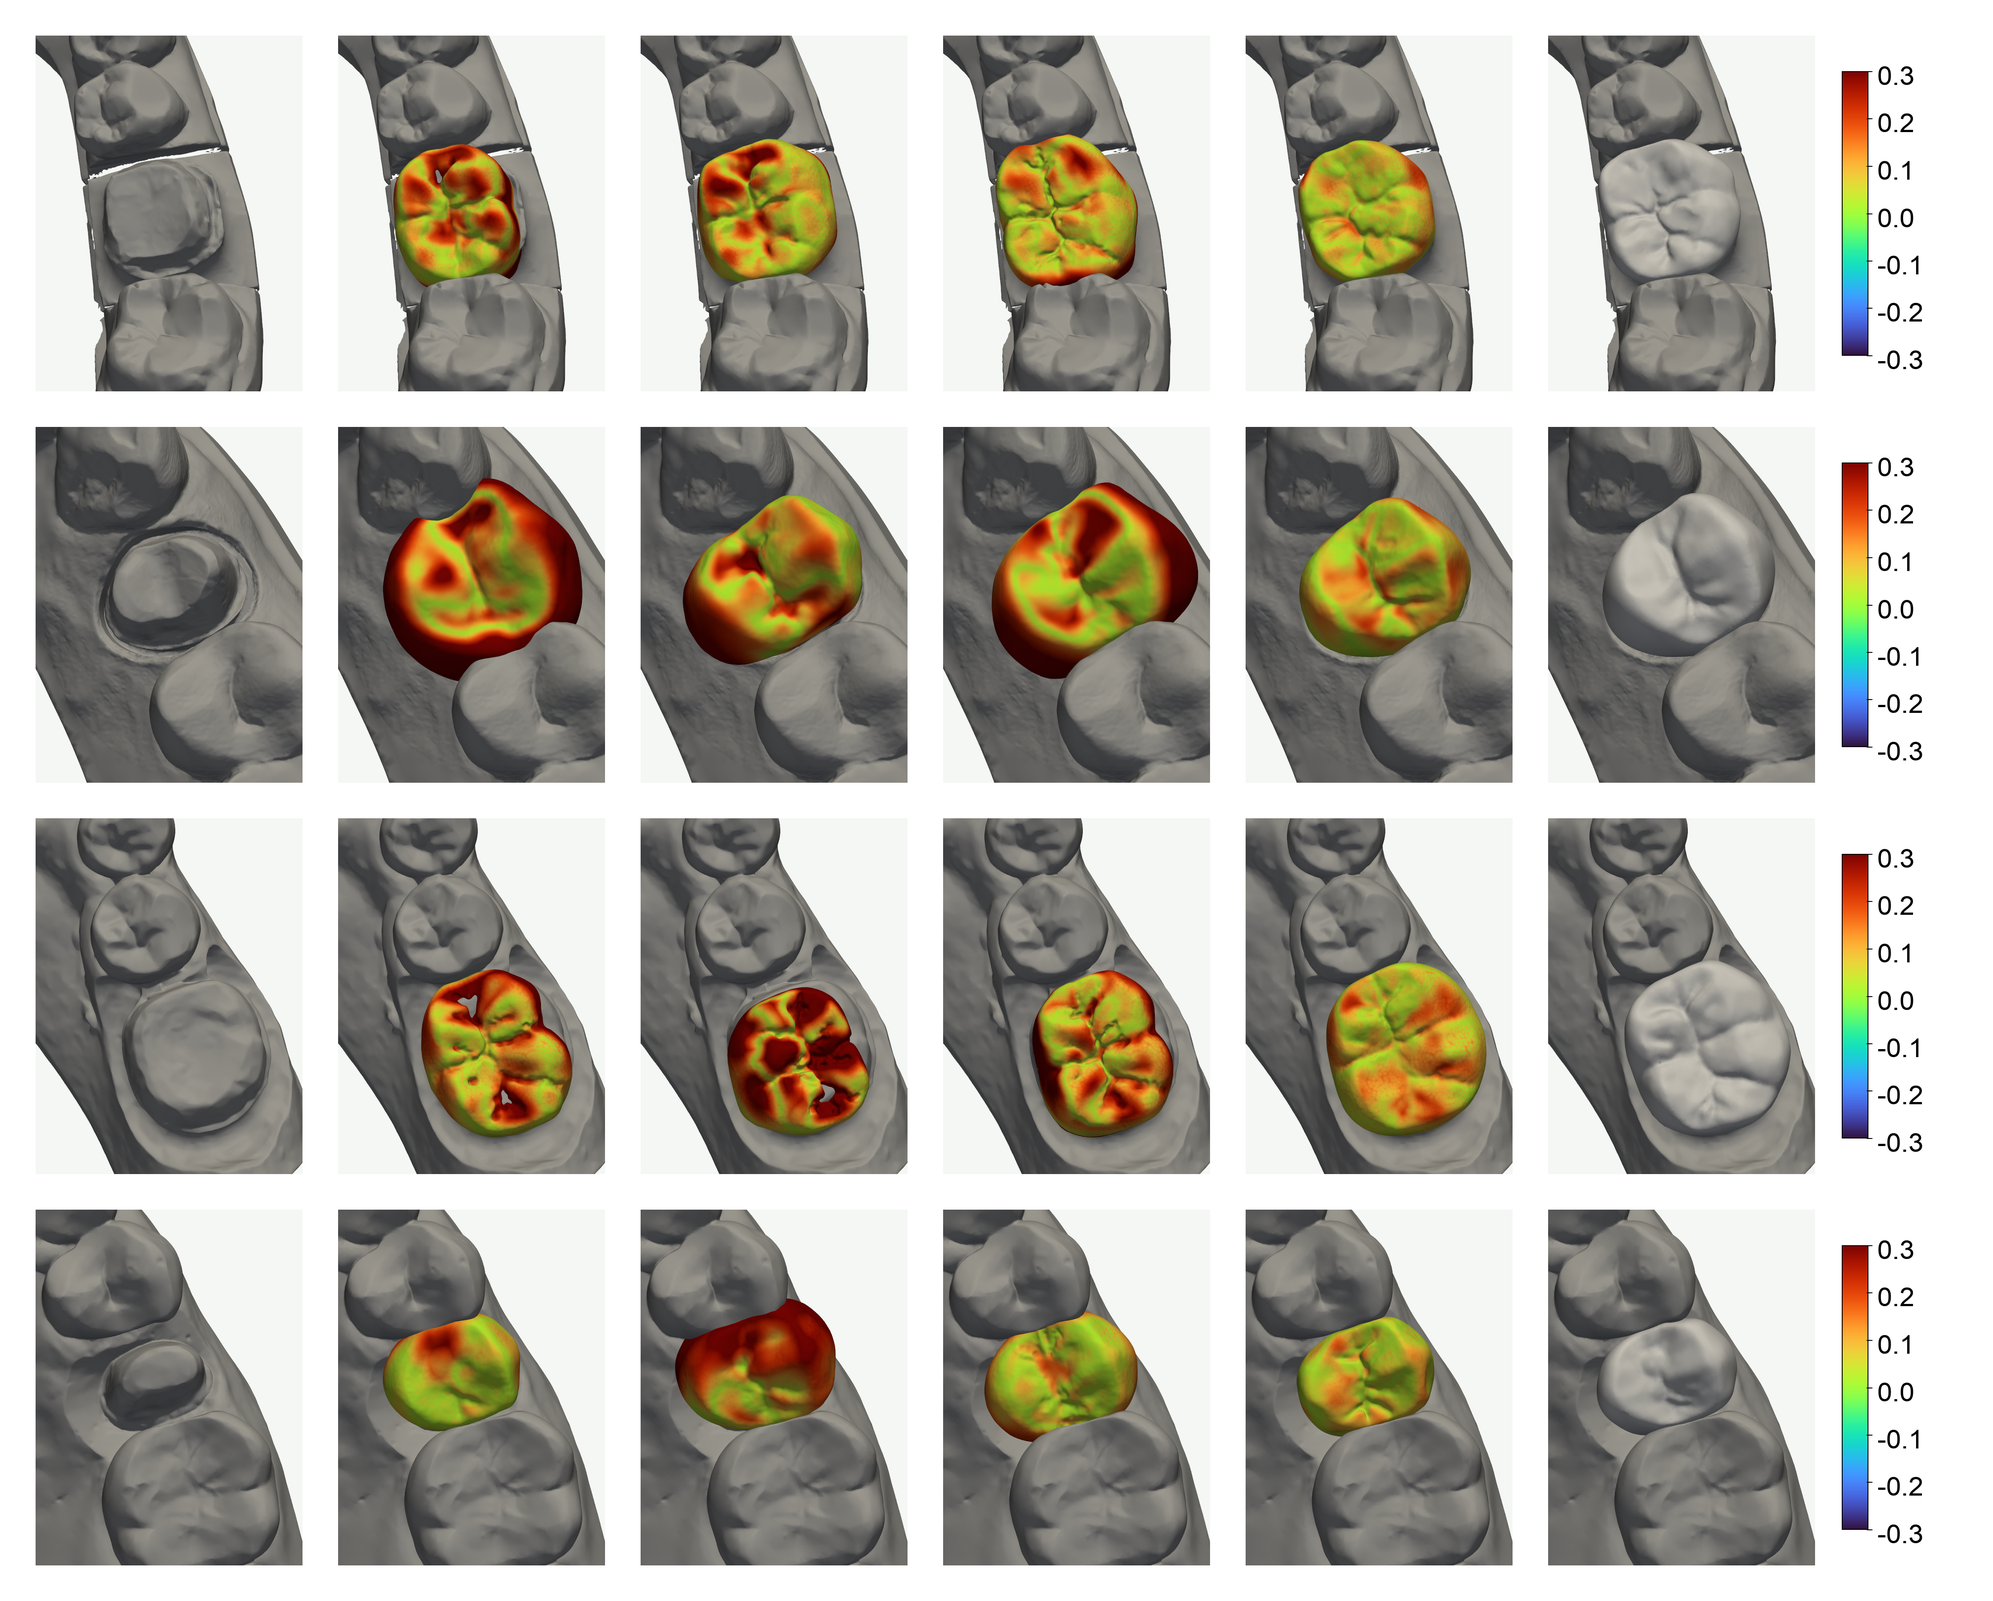
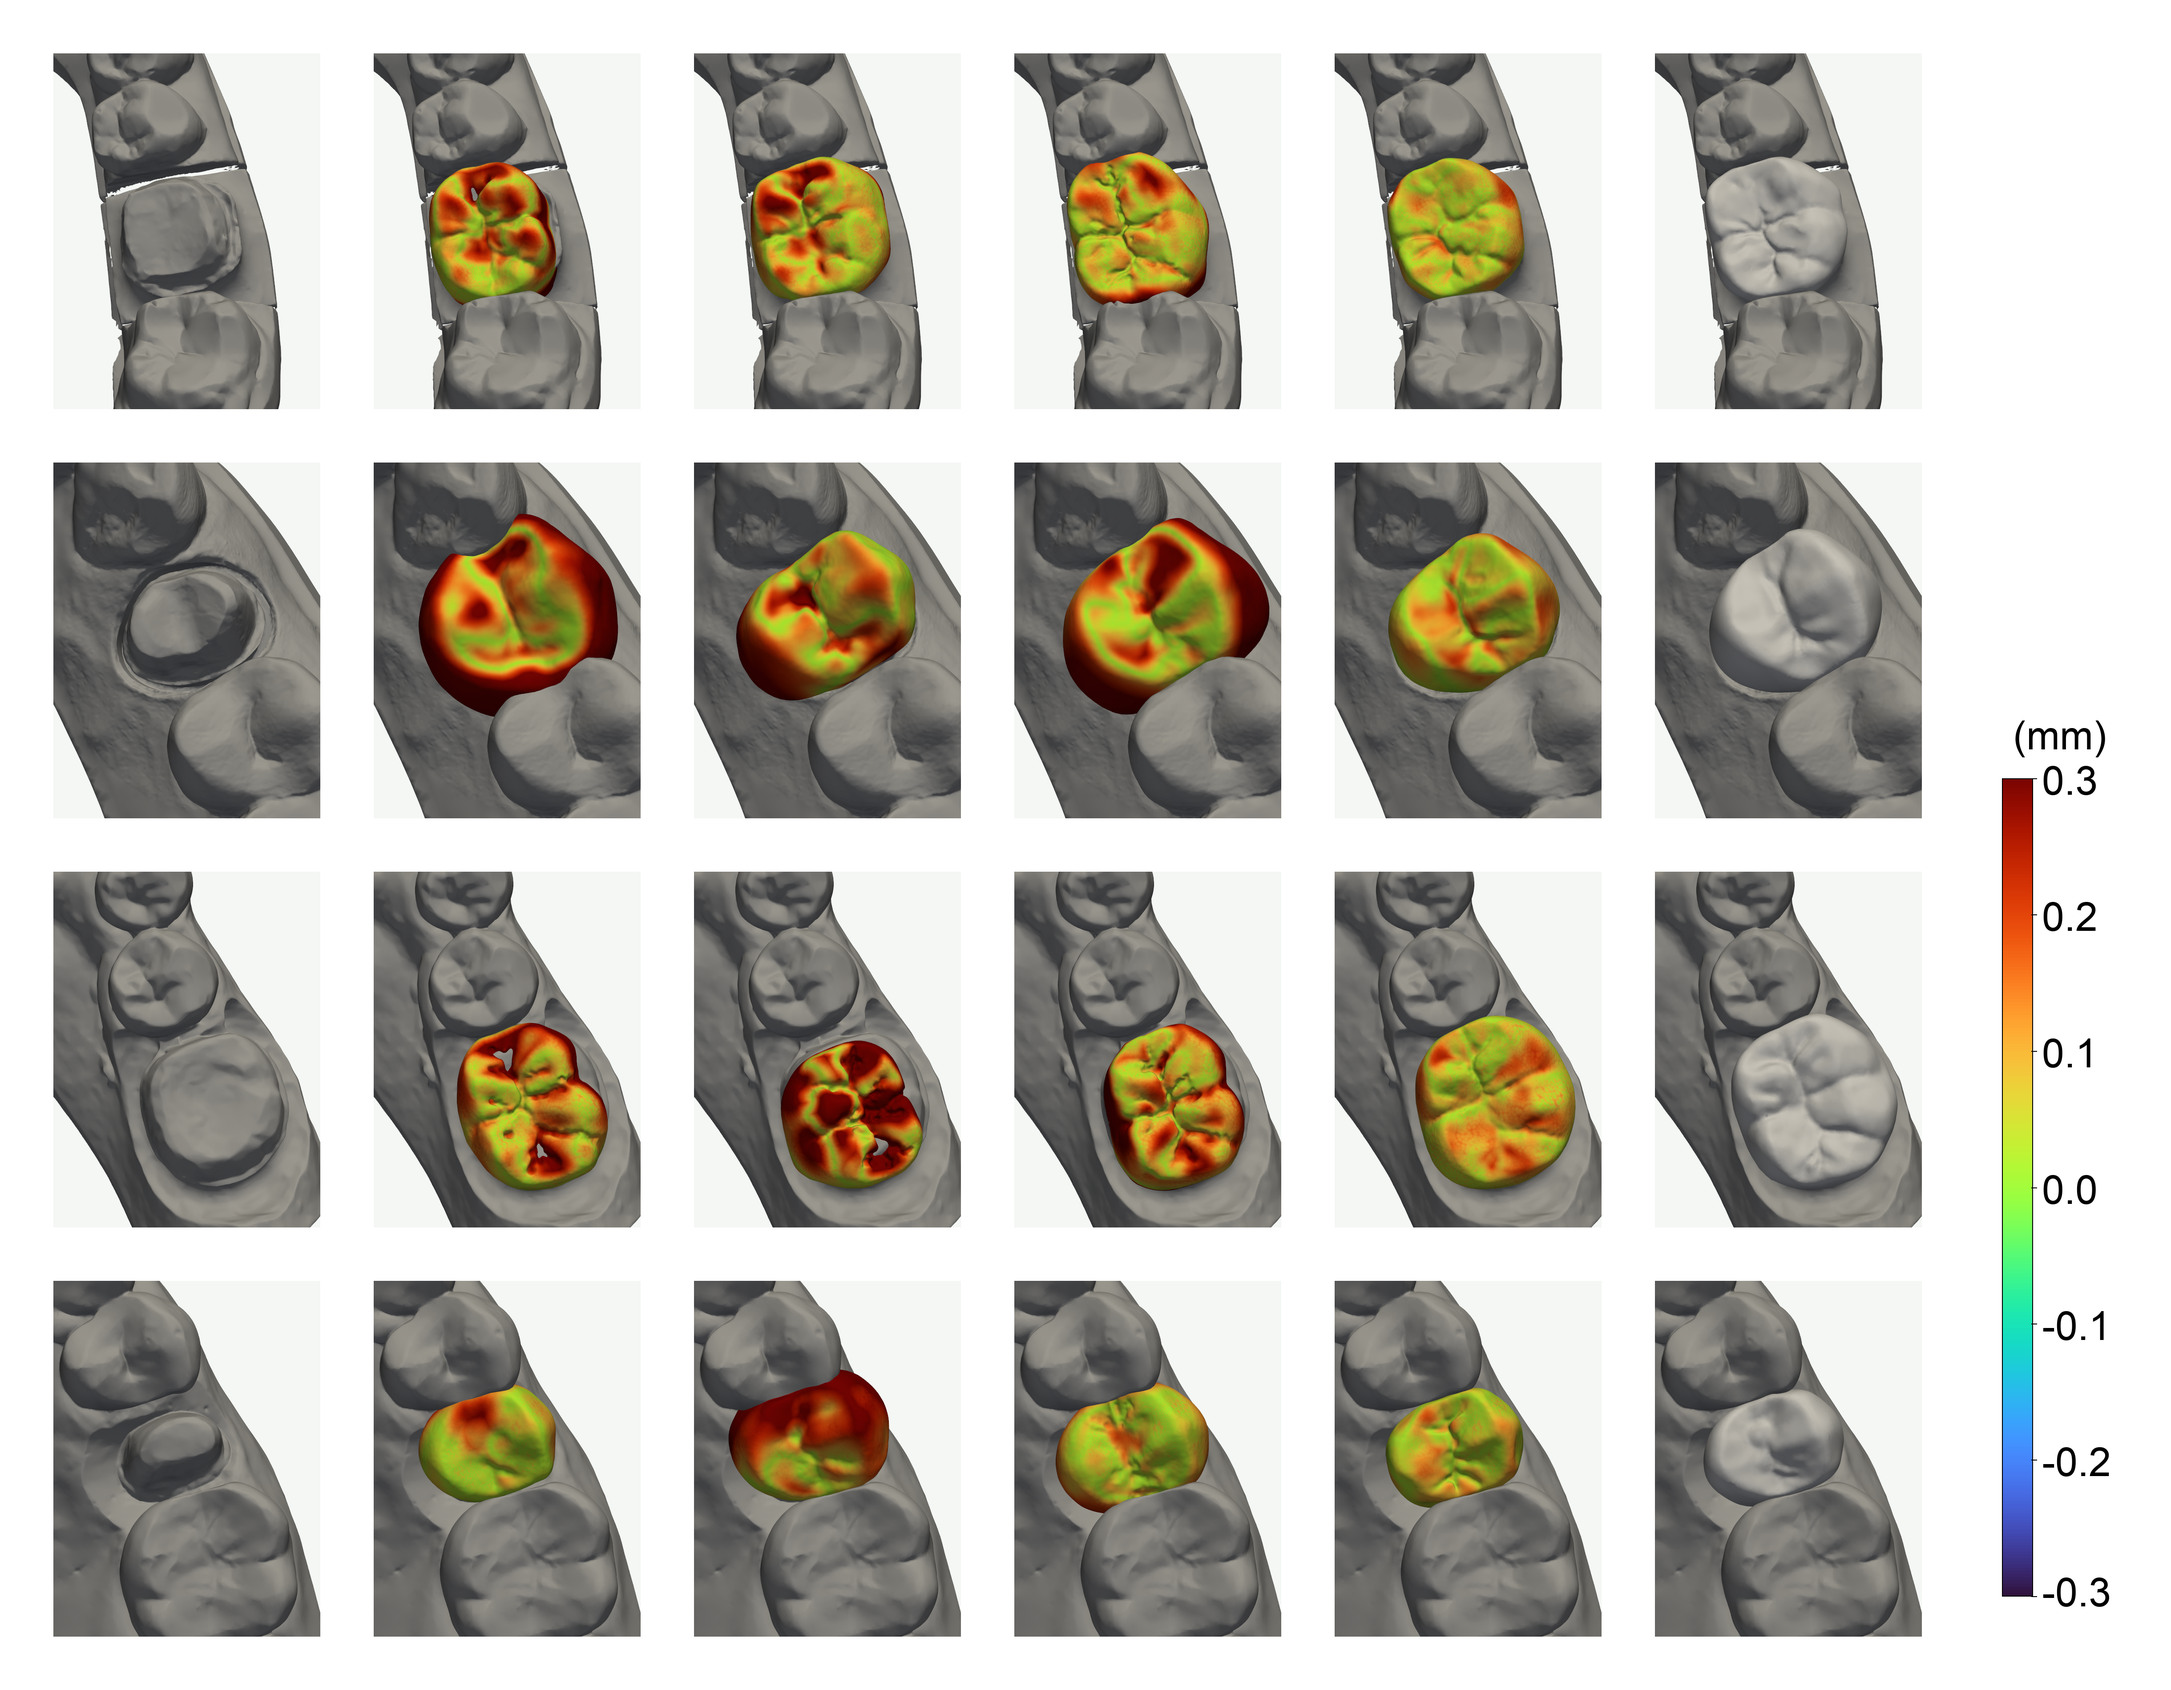
update

diff --git a/figures/method_comparison_preview_3/step3_merge_imgs.py b/figures/method_comparison_preview_3/step3_merge_imgs.py
@@ -28,22 +28,24 @@ COLORBAR_WIDTH = 260
 COLORBAR_GAP = 60 #色带与最后一张图片之间间距
 
 
-def make_colorbar(height: int) -> Image.Image:
+def make_colorbar(height: int, bar_width: int = 60, font_size: int = 60,
+                  unit: str = "(mm)") -> Image.Image:
     """Create a vertical turbo colorbar matching method_comparison_preview2."""
+    top_pad = 50  # extra clear space above the unit label
     margin_y = 80 # 色带本体上下留白
     bar_height = max(1, height - 2 * margin_y)
     values = np.linspace(1.0, 0.0, bar_height)
     rgb = (colormaps["turbo"](values)[:, :3] * 255).astype(np.uint8)
-    bar_width = 60
     bar = Image.fromarray(np.repeat(rgb[:, None, :], bar_width, axis=1), "RGB")
-    canvas = Image.new("RGB", (COLORBAR_WIDTH, height), "white")
-    canvas.paste(bar, (0, margin_y))
+    canvas = Image.new("RGB", (COLORBAR_WIDTH, height + top_pad), "white")
+    canvas.paste(bar, (0, margin_y + top_pad))
     draw = ImageDraw.Draw(canvas)
     # Frame the color strip so the scale is visually explicit.
+    margin_y += top_pad
     draw.rectangle((0, margin_y, bar_width - 1, margin_y + bar_height - 1),
                    outline="black", width=2)
     try:
-        font = ImageFont.truetype("/System/Library/Fonts/Supplemental/Arial.ttf", 60)
+        font = ImageFont.truetype("/System/Library/Fonts/Supplemental/Arial.ttf", font_size)
     except OSError:
         font = ImageFont.load_default()
     # Six evenly spaced ticks, with the largest positive value at the top.
@@ -51,8 +53,14 @@ def make_colorbar(height: int) -> Image.Image:
     for index, label in enumerate(labels):
         y = margin_y + round(index * (bar_height - 1) / (len(labels) - 1))
         draw.line((bar_width - 4, y, bar_width + 8, y), fill="black", width=2)
-        text_y = max(0, min(height - 52, y - 24))
+        text_y = max(0, min(height - font_size, y - font_size // 2))
         draw.text((bar_width + 20, text_y), label, fill="black", font=font)
+    # Unit label above the scale.
+    # Keep the unit fully inside the colorbar canvas and clearly above the
+    # first numeric tick label.
+    # Keep the complete unit visible at the top edge; the first tick starts
+    # lower down at ``margin_y``, so the labels do not overlap.
+    draw.text((COLORBAR_WIDTH // 2, 0), unit, fill="black", font=font, anchor="mt")
     return canvas
 
 
@@ -65,11 +73,27 @@ def main() -> None:
     )
     parser.add_argument("-o", "--output", type=Path, default=None,
                         help="output image (default: <folder>/merged_singlejaw.png)")
-    parser.add_argument("--gap", type=int, default=80,
+    parser.add_argument("--gap", type=int, default=120,
                         help="gap between tiles and rows in pixels (default: 24)")
     parser.add_argument("--background", default="white",
                         help="background colour (default: white)")
+    parser.add_argument("--colorbar-x", type=int, default=4500,
+                        help="colorbar left position in pixels (default: right of images)")
+    parser.add_argument("--colorbar-y", type=int, default=1620,
+                        help="colorbar top position in pixels (default: bottom aligned)")
+    parser.add_argument("--colorbar-length", type=int, default=2000,
+                        help="colorbar length in pixels (default: 70%% of image height)")
+    parser.add_argument("--colorbar-thickness", type=int, default=70,
+                        help="colorbar strip thickness in pixels")
+    parser.add_argument("--colorbar-font-size", type=int, default=90,
+                        help="colorbar tick and unit font size in pixels")
     args = parser.parse_args()
+    if args.colorbar_length is not None and args.colorbar_length < 2:
+        parser.error("colorbar-length must be at least 2 pixels")
+    if args.colorbar_thickness <= 0:
+        parser.error("colorbar-thickness must be positive")
+    if args.colorbar_font_size <= 0:
+        parser.error("colorbar-font-size must be positive")
 
     root = args.folder.resolve()
     output = (args.output or root / "method_comparison_preview.png").resolve()
@@ -97,9 +121,18 @@ def main() -> None:
     tile_width = max(image.width for row in images for image in row)
     tile_height = max(image.height for row in images for image in row)
     columns = max(len(row) for row in images)
-    canvas_width = (args.gap + columns * tile_width + (columns - 1) * args.gap
-                    + COLORBAR_GAP + COLORBAR_WIDTH + args.gap)
+    bar_length = args.colorbar_length or max(2, round(tile_height * 0.7))
+    default_x = (args.gap + columns * tile_width + (columns - 1) * args.gap
+                 + COLORBAR_GAP)
+    colorbar_x = default_x if args.colorbar_x is None else args.colorbar_x
     canvas_height = args.gap + len(images) * tile_height + (len(images) - 1) * args.gap + args.gap
+    colorbar_y = (canvas_height - args.gap - (bar_length + 50)
+                  if args.colorbar_y is None else args.colorbar_y)
+    if min(colorbar_x, colorbar_y) < 0:
+        parser.error("colorbar position must be nonnegative")
+    canvas_width = max(args.gap + columns * tile_width + (columns - 1) * args.gap
+                       + args.gap, colorbar_x + COLORBAR_WIDTH + args.gap)
+    canvas_height = max(canvas_height, colorbar_y + bar_length + 50 + args.gap)
     canvas = Image.new("RGB", (canvas_width, canvas_height), args.background)
 
     for row_index, row in enumerate(images):
@@ -109,10 +142,11 @@ def main() -> None:
             tile = ImageOps.contain(image, (tile_width, tile_height))
             canvas.paste(tile, (x + (tile_width - tile.width) // 2,
                                 y + (tile_height - tile.height) // 2))
-        colorbar = make_colorbar(tile_height)
-        colorbar_x = (args.gap + columns * tile_width
-                      + (columns - 1) * args.gap + COLORBAR_GAP)
-        canvas.paste(colorbar, (colorbar_x, y))
+    # Draw one shared colorbar, defaulting to the lower-right corner.
+    # Overlay one shared colorbar only after the complete image grid is drawn.
+    colorbar = make_colorbar(bar_length, args.colorbar_thickness,
+                             args.colorbar_font_size, "(mm)")
+    canvas.paste(colorbar, (colorbar_x, colorbar_y))
 
     output.parent.mkdir(parents=True, exist_ok=True)
     canvas.save(output)
